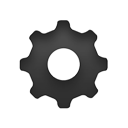
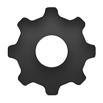
style fixes for new settings ui
- made buttons slightly narrower so they'd fit at 320px wide screens
  (like iphone 4)
- Re-photoshopped the images to crop them slightly and saved them
  larger for higher resolution on retina-like devices.

Changed region(s): [[0.0583, 0.0583, 0.932, 0.932], [0.3204, 0.3204, 0.6699, 0.6699]]

diff --git a/index.html b/index.html
@@ -60,22 +60,21 @@ router
         <a href="menu.html" data-slidepanel="panel"><img class="left logo pointer" src="img/tinylogo.png" width="30" height="30" alt="" /></a>
         <input class="search_box left" type="text" placeholder="Search..." id="term" />
         <button id="search" class="left bigger">GO</button>
-        <button id="account" class="left bigger" onclick="openSearch_options()"><img src="img/settings-gear.png" alt="ACCT" width="30" height="30" /></button>
-        <button id="account" class="right bigger" onclick="openForm()"><img src="img/account.png" alt="ACCT" width="30" height="30" /></button>
+        <button id="ssettings" class="left bigger" onclick="openSearch_options()"><img src="img/settings-gear.png" alt="" width="25" height="25" /></button>
+        <button id="account" class="right bigger" onclick="openForm()"><img src="img/account.png" alt="" width="25" height="25" /></button>
         <div class="clearfix"></div>
         <div id="search_options" style="display: none">
-        <input class="left" type="checkbox" id="available" value="false" style="margin-left: 40px;" />
+        <input class="left" type="checkbox" id="available" value="false" style="margin-left: 43px;" />
         <div class="left five" >ONLY AVAILABLE</div>
         
-        <select style="margin-bottom:15px;margin-top:0;" id="mediatype">
+        <select style="margin-bottom:10px;margin-top:0;" id="mediatype">
             <option value="ALL FORMATS">ALL FORMATS</option>
             <option value="BOOKS">BOOKS</option>
             <option value="MOVIES">MOVIES</option>
             <option value="MUSIC">MUSIC</option>
             <option value="VIDEO GAMES">VIDEO GAMES</option>
         </select>
-<br />
-        <select style="margin-bottom:15px;margin-top:0;margin-left: 40px;" id="location">
+        <select style="margin-bottom:10px;margin-top:0;margin-left:5px;" id="location">
             <option value="22">ALL LOCATIONS</option>
             <option value="23">WOODMERE</option>
             <option value="25">KINGSLEY</option>

diff --git a/css/main.css b/css/main.css
@@ -169,6 +169,7 @@ button {
 
 button.bigger {
     font-size:15px;
+    padding: 1px 8px 2px;
 }
 
 .button {
